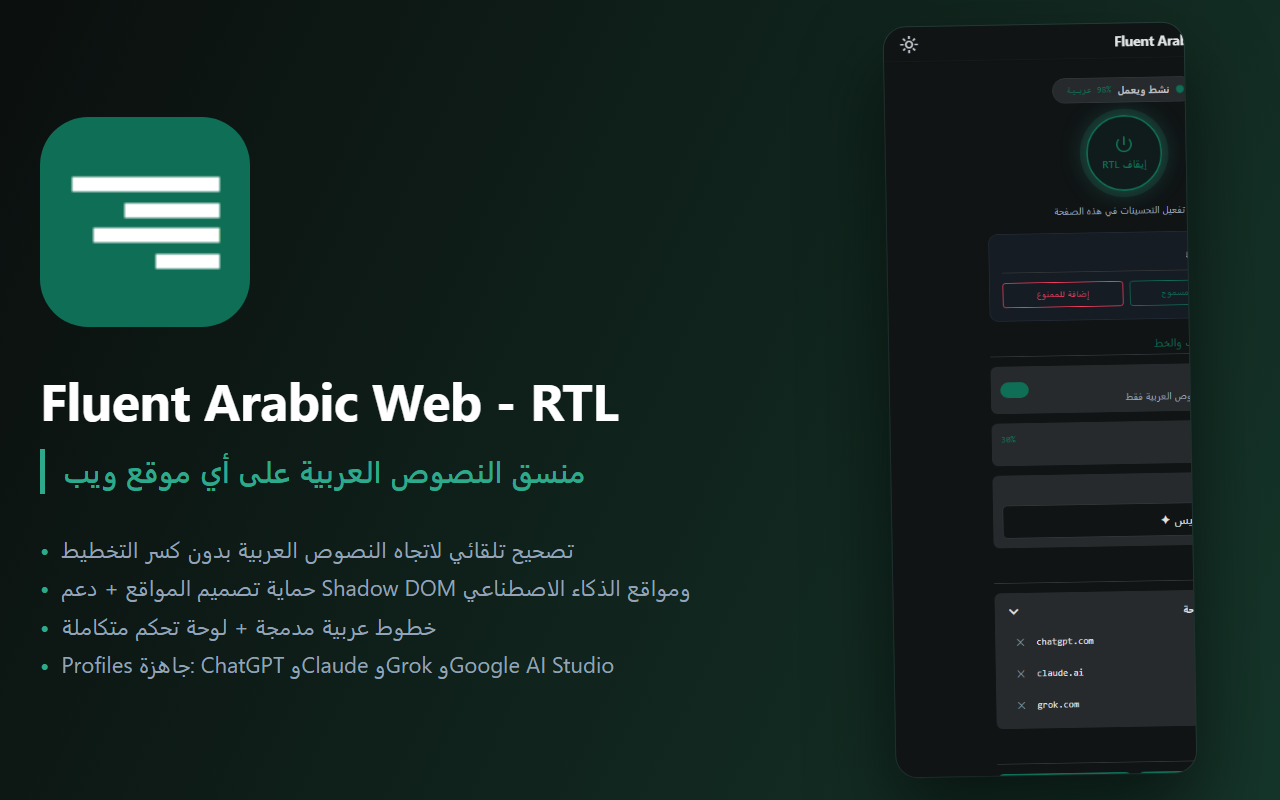
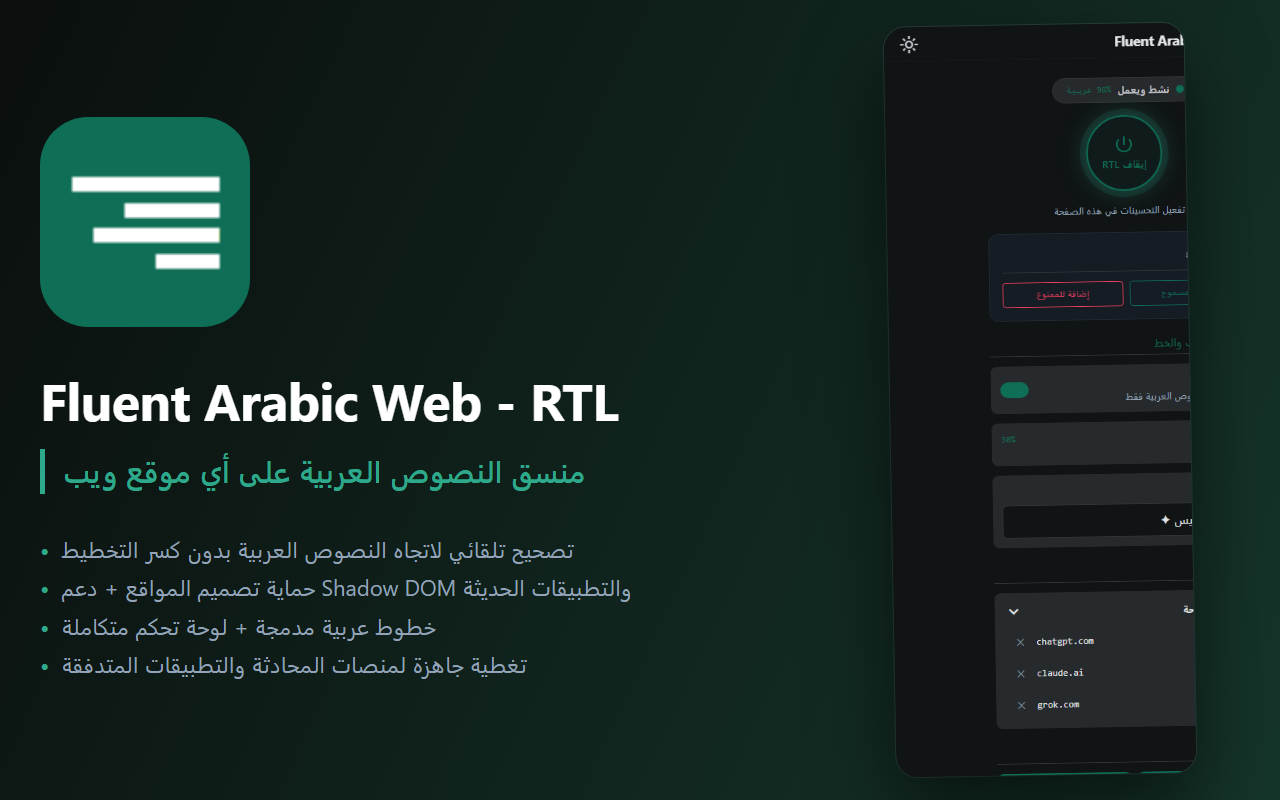
Remove brand names from store images (keyword stuffing rejection Yellow Argon)

Changed region(s): [[0.0312, 0.8125, 0.4688, 0.8438], [0.3438, 0.7188, 0.5312, 0.75]]

diff --git a/popup/store-1080.html b/popup/store-1080.html
@@ -41,9 +41,9 @@
       <div class="tagline">منسق النصوص العربية على أي موقع ويب</div>
       <ul class="features">
         <li>تصحيح تلقائي لاتجاه النصوص العربية بدون كسر التخطيط</li>
-        <li>حماية تصميم المواقع + دعم Shadow DOM ومواقع الذكاء الاصطناعي</li>
+        <li>حماية تصميم المواقع + دعم Shadow DOM والتطبيقات الحديثة</li>
         <li>خطوط عربية مدمجة + لوحة تحكم متكاملة</li>
-        <li>Profiles جاهزة: ChatGPT وClaude وGrok وGoogle AI Studio</li>
+        <li>تغطية جاهزة لمنصات المحادثة والتطبيقات المتدفقة</li>
       </ul>
     </div>
     <div class="shots">

diff --git a/popup/promo-wide-1400x560.html b/popup/promo-wide-1400x560.html
@@ -37,7 +37,7 @@
     <ul class="features">
       <li>تصحيح تلقائي لاتجاه النصوص العربية بدون كسر التخطيط</li>
       <li>خطوط عربية مدمجة + لوحة تحكم متكاملة</li>
-      <li>Profiles جاهزة: ChatGPT وClaude وGrok وGoogle AI Studio</li>
+      <li>تغطية جاهزة لمنصات المحادثة والتطبيقات الحديثة</li>
     </ul>
   </div>
   <img class="shot" src="popup-crop.png" alt="واجهة الإضافة">
